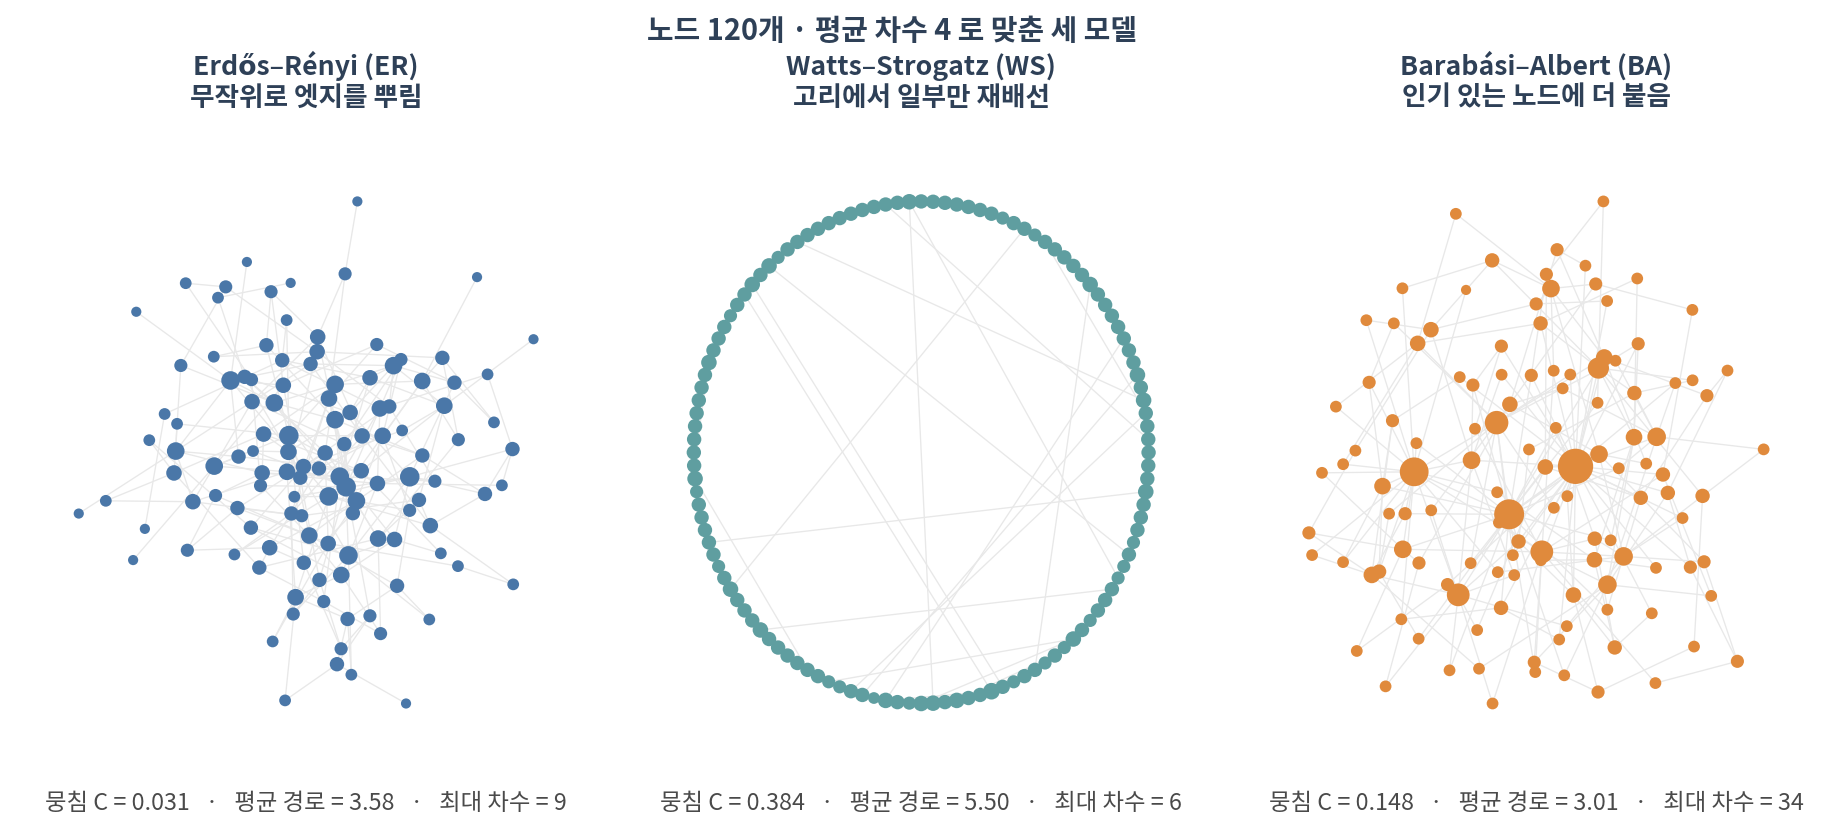
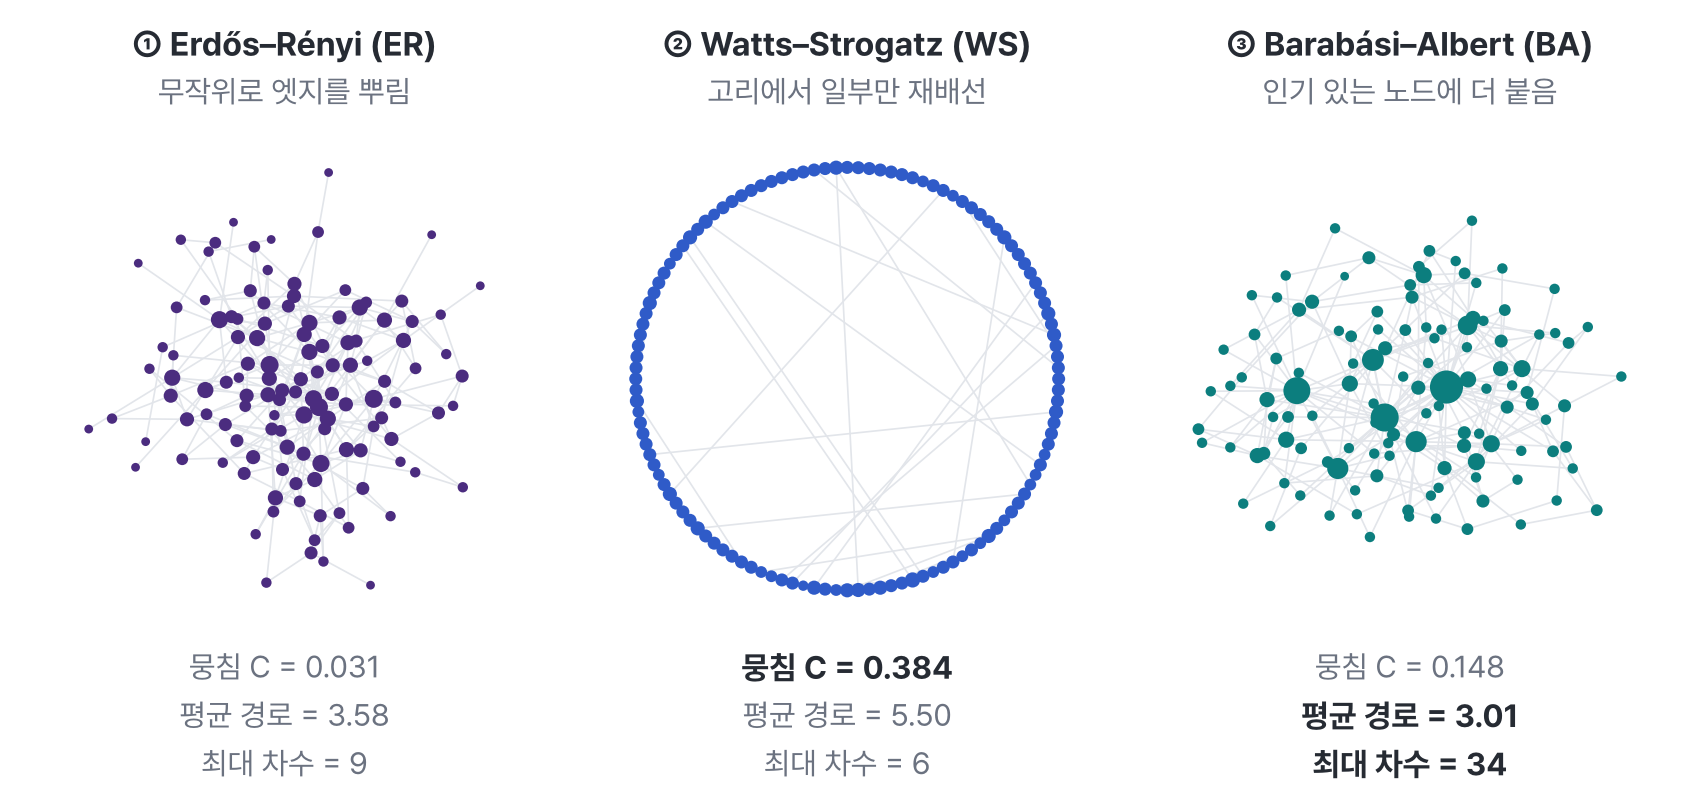
Ch 04: figures in the course style (models,motifs,smallworld)
Claude-Session: https://claude.ai/code/session_013CY8u6jJVw5bdmmbqCENQW

diff --git a/figs/c04_motifs.py b/figs/c04_motifs.py
@@ -1,25 +1,23 @@
 """04 §3 — 3-노드 모티프와 그 유의성.
 
-왼쪽: 방향 그래프에서 자주 이야기되는 3-노드 부분구조.
+왼쪽: 방향 그래프에서 자주 이야기되는 3-노드 부분구조 네 가지(2×2).
 오른쪽: 심어둔 feed-forward loop 가 방향 보존 재배선 null 대비 유의한가.
 """
 import sys, os
 sys.path.insert(0, os.path.dirname(os.path.abspath(__file__)))
-from style import *
+from medfig import *
 import networkx as nx
 from itertools import combinations
 
-OUT = outdir("c04")
-
 # ── 모티프 도식 ───────────────────────────────────────────────────────
 shapes = [
-    ("Cascade\n(연쇄)", [("A", "B"), ("B", "C")]),
-    ("Feed-forward loop\n(FFL)", [("A", "B"), ("B", "C"), ("A", "C")]),
-    ("Feedback loop\n(되먹임)", [("A", "B"), ("B", "C"), ("C", "A")]),
-    ("Fan-out\n(공동 조절)", [("A", "B"), ("A", "C")]),
+    ("Cascade", "연쇄", [("A", "B"), ("B", "C")]),
+    ("Feed-forward loop", "FFL", [("A", "B"), ("B", "C"), ("A", "C")]),
+    ("Feedback loop", "되먹임", [("A", "B"), ("B", "C"), ("C", "A")]),
+    ("Fan-out", "공동 조절", [("A", "B"), ("A", "C")]),
 ]
 
-# ── FFL 을 심은 합성 조절 네트워크 ────────────────────────────────────
+# ── FFL 을 심은 합성 조절 네트워크 (old script verbatim) ───────────────
 rng = np.random.default_rng(7)
 n_genes, n_ffl, n_random = 80, 25, 160
 D = nx.DiGraph()
@@ -61,33 +59,65 @@ null = np.array(null)
 z = (obs - null.mean()) / null.std(ddof=1)
 p = (np.sum(null >= obs) + 1) / (N + 1)
 
-fig = plt.figure(figsize=(15.0, 4.6))
-gs = fig.add_gridspec(1, 5, width_ratios=[1, 1, 1, 1, 2.1], wspace=0.30)
+# ── 그림 ─────────────────────────────────────────────────────────────
+W, Hh = 8.4, 4.25
+fig = plt.figure(figsize=(W, Hh))
 
-for i, (name, edges) in enumerate(shapes):
-    ax = fig.add_subplot(gs[0, i])
-    g = nx.DiGraph(edges)
-    pos = {"A": (0, 1), "B": (-0.9, -0.6), "C": (0.9, -0.6)}
-    nx.draw_networkx_edges(g, pos, ax=ax, edge_color="#7C93A3", width=2.0,
-                           arrowsize=16, node_size=760,
-                           connectionstyle="arc3,rad=0.06")
-    nx.draw_networkx_nodes(g, pos, ax=ax, node_color=NAVY, linewidths=0,
-                           node_size=760)
-    nx.draw_networkx_labels(g, pos, ax=ax, font_size=11, font_color="white",
-                            font_weight="bold")
-    ax.set_title(name, color=NAVY, fontsize=11.5)
-    ax.margins(0.28); ax.set_axis_off()
+def inch_axes(x, y, w, h):
+    return fig.add_axes([x / W, y / Hh, w / W, h / Hh])
 
-ax = fig.add_subplot(gs[0, 4])
-ax.hist(null, bins=24, color=GREY, alpha=0.85, label=f"null (재배선 {N}회)")
-ax.axvline(obs, color=RED, lw=2.6, label="관측값")
-ax.axvline(null.mean(), color=NAVY, lw=1.4, ls="--", label="null 평균")
-ax.set_xlabel("FFL 개수"); ax.set_ylabel("빈도")
-ax.set_title(f"FFL 이 유의하게 많은가 — Z = {z:.1f}", color=NAVY, fontsize=12)
-ax.legend(frameon=False, fontsize=9.5)
+NODE, EDGE = PRIMARY, "#9AA1AB"
+R = 0.27
+pos = {"A": (0.0, 0.85), "B": (-0.85, -0.5), "C": (0.85, -0.5)}
+mw, mh = 1.75, 1.85
+xr = 2.6
+yr = xr * mh / mw
+slots = [(0.1, 2.05), (1.95, 2.05), (0.1, 0.1), (1.95, 0.1)]
+for (x0, y0), (name, sub, edges) in zip(slots, shapes):
+    ax = inch_axes(x0, y0, mw, mh)
+    ax.set_xlim(-xr / 2, xr / 2); ax.set_ylim(1.2 - yr, 1.2)
+    ax.set_aspect("equal")
+    ax.set_xticks([]); ax.set_yticks([])
+    for sp in ax.spines.values(): sp.set_visible(False)
+    ax.patch.set_alpha(0)
+    for s, t in edges:
+        p0, p1 = np.array(pos[s]), np.array(pos[t])
+        d = (p1 - p0) / np.linalg.norm(p1 - p0)
+        a0, a1 = p0 + d * (R + 0.03), p1 - d * (R + 0.04)
+        ax.add_patch(mp.FancyArrowPatch(tuple(a0), tuple(a1), arrowstyle="-|>", mutation_scale=14,
+                                        color=EDGE, lw=1.8, shrinkA=0, shrinkB=0, zorder=2))
+    for k, (x, y) in pos.items():
+        ax.add_patch(mp.Circle((x, y), R, fc=NODE, ec="none", zorder=3))
+        ax.text(x, y, k, ha="center", va="center", fontsize=11.5, fontweight="bold",
+                color=on(NODE), zorder=4)
+    ax.text(0, -0.9, name, ha="center", va="top", fontsize=11.5, fontweight="bold", color=TEXT)
+    ax.text(0, -1.23, sub, ha="center", va="top", fontsize=11, color=TEXT2)
 
-fig.savefig(os.path.join(OUT, "motifs.png"))
-print("wrote", os.path.join(OUT, "motifs.png"))
+fig.text(0.1 / W, 4.08 / Hh, "① 방향 그래프의 3-노드 패턴", ha="left", va="bottom",
+         fontsize=12.5, fontweight="bold", color=TEXT)
+
+# ── 히스토그램 ───────────────────────────────────────────────────────
+ax = inch_axes(4.55, 0.62, 3.7, 3.25)
+NULLC = STEPS[1]
+counts, _, _ = ax.hist(null, bins=24, color=NULLC, edgecolor="white", linewidth=0.4, zorder=2)
+hmax = counts.max()
+ax.set_ylim(0, hmax * 1.3)
+ax.set_xlim(null.min() - 2, obs + 3)
+ax.axvline(null.mean(), color=PRIMARY, lw=1.4, ls=(0, (4, 3)), zorder=3)
+ax.axvline(obs, color=ACCENT_INK, lw=2.4, zorder=3)
+ax.text(null.mean() + 0.8, hmax * 1.17, f"null 평균 {null.mean():.1f}", ha="left", va="center",
+        fontsize=11, color=PRIMARY, fontweight="bold")
+ax.text(37, hmax * 0.5, f"null 분포\n재배선 {N}회", ha="left", va="center", fontsize=11,
+        color=TEXT2, linespacing=1.35)
+ax.text(obs - 1.2, hmax * 1.0, f"관측 {obs}\nZ = {z:.1f}", ha="right", va="center", fontsize=11.5,
+        color=ACCENT_INK, fontweight="bold", linespacing=1.4)
+ax.set_xlabel("FFL 개수", fontsize=11.5)
+ax.set_ylabel("빈도", fontsize=11.5)
+ax.tick_params(labelsize=11)
+fig.text(4.25 / W, 4.08 / Hh, "② 심어둔 FFL은 유의하게 많은가", ha="left", va="bottom",
+         fontsize=12.5, fontweight="bold", color=TEXT)
+
+save(fig, img("c04", "motifs.png"))
 print(f"노드 {D.number_of_nodes()}, 엣지 {D.number_of_edges()}")
 print(f"관측 FFL {obs} | null 평균 {null.mean():.1f} ± {null.std(ddof=1):.1f} "
       f"| Z = {z:.2f} | p = {p:.4f}")

diff --git a/figs/c04_models.py b/figs/c04_models.py
@@ -4,41 +4,49 @@
 """
 import sys, os
 sys.path.insert(0, os.path.dirname(os.path.abspath(__file__)))
-from style import *
+from medfig import *
 import networkx as nx
-
-OUT = outdir("c04")
 
 n, k = 120, 4
 ER = nx.gnm_random_graph(n, n * k // 2, seed=2)
 WS = nx.watts_strogatz_graph(n, k, 0.08, seed=2)
 BA = nx.barabasi_albert_graph(n, k // 2, seed=2)
 
-models = [("Erdős–Rényi (ER)\n무작위로 엣지를 뿌림", ER, BLUE),
-          ("Watts–Strogatz (WS)\n고리에서 일부만 재배선", WS, TEAL),
-          ("Barabási–Albert (BA)\n인기 있는 노드에 더 붙음", BA, ORANGE)]
+# 나란한 세 모델 → CAT[0..2]; 본문 표에서 굵게 쓴 값(WS의 C, BA의 경로·최대 차수)만 진하게
+models = [("Erdős–Rényi (ER)", "무작위로 엣지를 뿌림", ER, CAT[0], set()),
+          ("Watts–Strogatz (WS)", "고리에서 일부만 재배선", WS, CAT[1], {"C"}),
+          ("Barabási–Albert (BA)", "인기 있는 노드에 더 붙음", BA, CAT[2], {"L", "K"})]
+marks = ["①", "②", "③"]
 
-fig, axes = plt.subplots(1, 3, figsize=(14.6, 5.2), gridspec_kw={"wspace": 0.06})
+plt.rcParams.update({"xtick.labelsize": 11, "ytick.labelsize": 11})
+fig, axes = plt.subplots(1, 3, figsize=(8.4, 4.1), gridspec_kw={"wspace": 0.08})
+fig.subplots_adjust(top=0.84, bottom=0.22, left=0.01, right=0.99)
 
-for ax, (name, G, col) in zip(axes, models):
+for ax, mk, (name, sub, G, col, bold) in zip(axes, marks, models):
     G = G.subgraph(max(nx.connected_components(G), key=len)).copy()
     pos = (nx.circular_layout(G) if name.startswith("Watts")
            else nx.spring_layout(G, seed=3, k=0.35))
     deg = np.array([d for _, d in G.degree()])
-    nx.draw_networkx_edges(G, pos, ax=ax, edge_color=LGREY, width=0.6)
+    nx.draw_networkx_edges(G, pos, ax=ax, edge_color=LINE, width=0.6)
     nx.draw_networkx_nodes(G, pos, ax=ax, node_color=col, linewidths=0,
-                           node_size=14 + 7 * deg)
+                           node_size=6 + 4 * deg)
     C = nx.average_clustering(G)
     L = nx.average_shortest_path_length(G)
-    ax.set_title(name, color=NAVY, fontsize=12)
-    ax.text(0.5, -0.03,
-            f"뭉침 C = {C:.3f}   ·   평균 경로 = {L:.2f}   ·   최대 차수 = {deg.max()}",
-            transform=ax.transAxes, ha="center", va="top", fontsize=10.5,
-            color="#4A4A4A")
-    ax.margins(0.08); ax.set_axis_off()
-    print(f"{name.splitlines()[0]:<28} C={C:.4f}  L={L:.3f}  kmax={deg.max()}")
+    ax.margins(0.06); ax.set_aspect("equal", adjustable="datalim")
+    ax.set_xticks([]); ax.set_yticks([])
+    for sp in ax.spines.values(): sp.set_visible(False)
 
-fig.suptitle(f"노드 {n}개 · 평균 차수 {k} 로 맞춘 세 모델", color=NAVY,
-             fontsize=13, fontweight="bold", y=1.02)
-fig.savefig(os.path.join(OUT, "models.png"))
-print("wrote", os.path.join(OUT, "models.png"))
+    ax.text(0.5, 1.12, f"{mk} {name}", transform=ax.transAxes, ha="center", va="bottom",
+            fontsize=12, fontweight="bold", color=TEXT)
+    ax.text(0.5, 1.03, sub, transform=ax.transAxes, ha="center", va="bottom",
+            fontsize=11, color=TEXT2)
+    rows = [("C", f"뭉침 C = {C:.3f}"), ("L", f"평균 경로 = {L:.2f}"),
+            ("K", f"최대 차수 = {deg.max()}")]
+    for j, (key, txt) in enumerate(rows):
+        b = key in bold
+        ax.text(0.5, -0.03 - 0.095 * j, txt, transform=ax.transAxes, ha="center", va="top",
+                fontsize=11.5 if b else 11, fontweight="bold" if b else "regular",
+                color=TEXT if b else TEXT2)
+    print(f"{name:<28} C={C:.4f}  L={L:.3f}  kmax={deg.max()}")
+
+save(fig, img("c04", "models.png"))

diff --git a/figs/c04_smallworld.py b/figs/c04_smallworld.py
@@ -5,10 +5,8 @@ Watts–Strogatz 재배선 확률 p 를 올리면 평균 경로가 먼저 무너
 """
 import sys, os
 sys.path.insert(0, os.path.dirname(os.path.abspath(__file__)))
-from style import *
+from medfig import *
 import networkx as nx
-
-OUT = outdir("c04")
 
 n, k, reps = 500, 10, 12
 ps = np.logspace(-4, 0, 16)
@@ -26,22 +24,29 @@ for p in ps:
         cc.append(nx.average_clustering(G))
         ll.append(nx.average_shortest_path_length(G))
     Cs.append(np.mean(cc)); Ls.append(np.mean(ll))
-Cs, Ls = np.array(Cs), np.array(Ls)
+Cs, Ls = np.array(Cs) / C0, np.array(Ls) / L0
 
-fig, ax = plt.subplots(figsize=(8.2, 4.8))
-ax.semilogx(ps, Cs / C0, "o-", color=TEAL, lw=2, ms=5, label="뭉침  C(p) / C(0)")
-ax.semilogx(ps, Ls / L0, "s-", color=ORANGE, lw=2, ms=5,
-            label="평균 경로  L(p) / L(0)")
-ax.axvspan(0.003, 0.08, color=PURPLE, alpha=0.12)
-ax.text(0.015, 0.45, "small-world\n구간", ha="center", fontsize=11,
-        color=PLUM, fontweight="bold")
-ax.set_xlabel("재배선 확률  p")
-ax.set_ylabel("p = 0 일 때 대비 비율")
-ax.set_ylim(0, 1.05)
-ax.set_title("경로는 먼저 짧아지고, 뭉침은 늦게까지 남는다", color=NAVY)
-ax.legend(frameon=False, loc="lower left")
+plt.rcParams.update({"xtick.labelsize": 11, "ytick.labelsize": 11})
+fig, ax = plt.subplots(figsize=(7.0, 3.7))
+CC, LC = CAT[2], CAT[0]                      # 뭉침 · 평균 경로 (나란한 두 지표)
+ax.axvspan(0.003, 0.08, color=FAINT, lw=0, zorder=0)
+ax.text(0.0155, 1.1, "small-world 구간", ha="center", va="center", fontsize=11, color=TEXT2)
+ax.semilogx(ps, Cs, "o-", color=CC, lw=2, ms=5, zorder=3)
+ax.semilogx(ps, Ls, "s-", color=LC, lw=2, ms=5, zorder=3)
+ax.text(0.11, 0.93, "뭉침  C(p) / C(0)", color=CC, fontsize=11.5, fontweight="bold", va="center")
+ax.text(1.1e-4, 0.45, "평균 경로  L(p) / L(0)", color=LC, fontsize=11.5, fontweight="bold", va="center")
 
-fig.savefig(os.path.join(OUT, "smallworld.png"))
-print("wrote", os.path.join(OUT, "smallworld.png"))
-for p, c, l in zip(ps, Cs / C0, Ls / L0):
+i = int(np.argmin(np.abs(ps - 0.004)))      # 본문이 짚는 점: p = 0.004
+ax.plot([ps[i]] * 2, [Ls[i], Cs[i]], color=ACCENT_INK, lw=1.2, ls=(0, (3, 2)), zorder=2)
+ax.plot([ps[i]] * 2, [Ls[i], Cs[i]], "o", ms=8, mfc="none", mec=ACCENT_INK, mew=1.8, zorder=4)
+ax.annotate(f"p = {ps[i]:.3f}\n경로 {Ls[i]:.0%} · 뭉침 {Cs[i]:.0%}", xy=(ps[i], Ls[i]),
+            xytext=(0.0095, 0.53), fontsize=11, color=ACCENT_INK, fontweight="bold", va="center",
+            linespacing=1.4, arrowprops=dict(arrowstyle="-|>", color=ACCENT_INK, lw=1.2,
+                                             connectionstyle="arc3,rad=0.25"))
+
+ax.set_xlabel("재배선 확률  p", fontsize=11.5)
+ax.set_ylabel("p = 0일 때 대비 비율", fontsize=11.5)
+ax.set_ylim(0, 1.18); ax.set_yticks([0, 0.25, 0.5, 0.75, 1.0])
+save(fig, img("c04", "smallworld.png"))
+for p, c, l in zip(ps, Cs, Ls):
     print(f"  p={p:.5f}  C/C0={c:.3f}  L/L0={l:.3f}")
